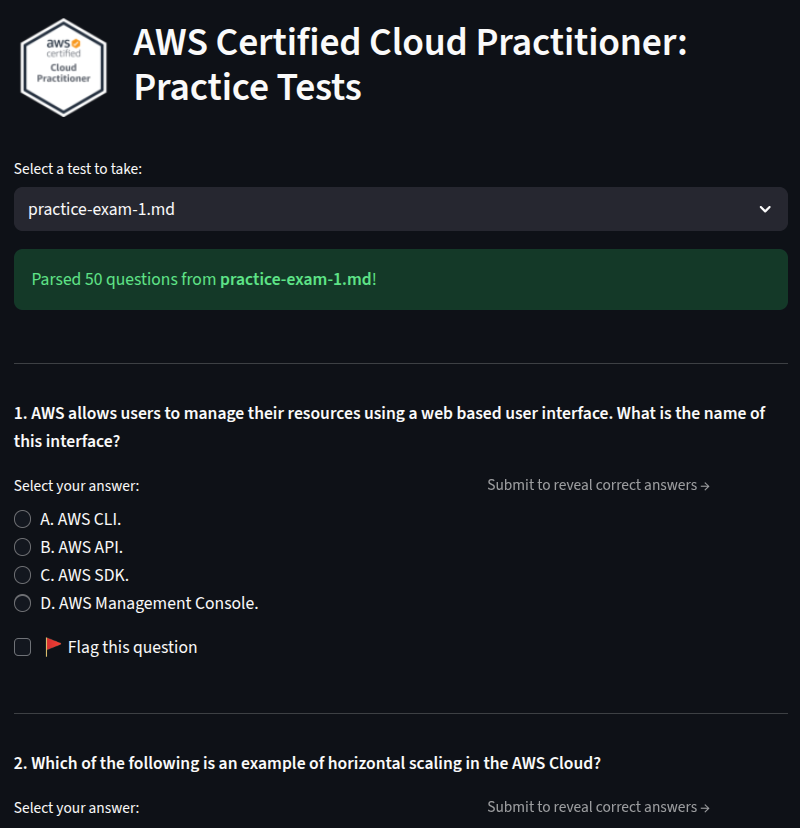
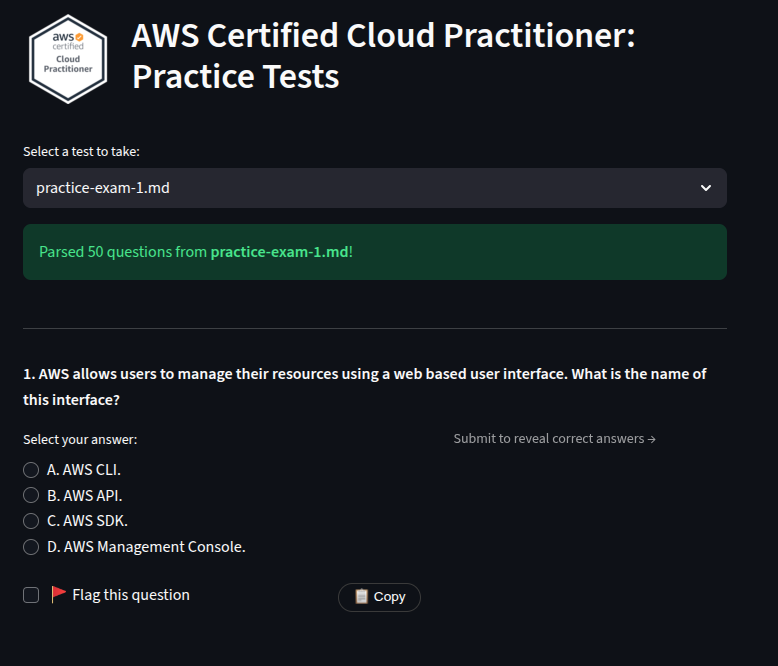
feat(): Adding copy button for question

diff --git a/test_application.py b/test_application.py
@@ -4,8 +4,96 @@ from pathlib import Path
 
 import pandas as pd
 import streamlit as st
+import json
+from streamlit.components.v1 import html as st_html
 from openpyxl import load_workbook
 from openpyxl.styles import PatternFill
+
+# -------------------------
+# Copy button helper (added)
+# -------------------------
+
+def copy_to_clipboard_button(text: str, key: str, label: str = "📋 Copy"):
+    """
+    Render a tiny HTML button that copies `text` to clipboard.
+    - Uses dark theme styling (black background to match Streamlit dark).
+    - Fully rounded pill border so the bottom edge doesn't look clipped.
+    - On success, label changes to "Copied" briefly.
+    """
+    js_safe_text = json.dumps(text)
+    button_id = f"{key}_btn"
+    status_id = f"{key}_status"
+    html_snippet = """
+        <div style="display:flex;align-items:center;gap:8px;justify-content:flex-end;">
+          <button id="{button_id}" style="
+              display:inline-block;
+              font-size:0.85rem;
+              padding:0.38rem 0.9rem;
+              line-height:1.1;
+              border-radius:9999px;
+              border:1px solid #3a3a3a;
+              background:#0e1117;
+              color:#ffffff;
+              cursor:pointer;
+              outline:none;
+          ">
+            {label}
+          </button>
+          <span id="{status_id}" style="font-size:0.8rem;opacity:0.7;"></span>
+        </div>
+        <script>
+        (function(){{
+          const btn = document.getElementById("{button_id}");
+          const status = document.getElementById("{status_id}");
+          const text = {js_safe_text};
+          const original = btn.textContent;
+
+          function fallbackCopy() {{
+            const ta = document.createElement('textarea');
+            ta.value = text;
+            ta.setAttribute('readonly', '');
+            ta.style.position = 'fixed';
+            ta.style.left = '-9999px';
+            document.body.appendChild(ta);
+            ta.select();
+            let ok = false;
+            try {{ ok = document.execCommand('copy'); }} catch (e) {{ ok = false; }}
+            document.body.removeChild(ta);
+            return ok;
+          }}
+
+          async function doCopy() {{
+            let ok = false;
+            btn.disabled = true;
+            try {{
+              if (navigator.clipboard && window.isSecureContext) {{
+                await navigator.clipboard.writeText(text);
+                ok = true;
+              }}
+            }} catch (e) {{
+              ok = false;
+            }}
+            if (!ok) ok = fallbackCopy();
+
+            if (ok) {{
+              btn.textContent = "Copied";
+              status.textContent = "";
+            }} else {{
+              status.textContent = "Copy failed";
+              status.style.opacity = 1;
+            }}
+            setTimeout(() => {{
+              btn.textContent = original;
+              btn.disabled = false;
+              status.textContent = "";
+            }}, 1500);
+          }}
+          btn.addEventListener('click', doCopy);
+        }})();
+        </script>
+    """.format(button_id=button_id, status_id=status_id, label=label, js_safe_text=js_safe_text)
+    # Increase component height a bit to avoid clipping
+    st_html(html_snippet, height=56)
 
 # ===================== Page setup (must be the first Streamlit call) =====================
 APP_DIR = Path(__file__).parent.resolve()
@@ -168,7 +256,18 @@ def main():
                         index=None  # don't preselect
                     )
 
-                flag = st.checkbox("🚩 Flag this question", key=f"flag_{idx}")
+                chk_col, copy_col = st.columns([5, 2])
+
+                with chk_col:
+
+                    flag = st.checkbox("🚩 Flag this question", key=f"flag_{idx}")
+
+                with copy_col:
+
+                    copy_text = q['question'] + "\n\n" + "\n".join([f"- {opt}" for opt in q['options']])
+
+                    copy_to_clipboard_button(copy_text, key=f"copy_{idx}", label="📋 Copy")
+
                 user_answers[idx_str] = selected
                 flags[idx_str] = flag
 

diff --git a/README.md b/README.md
@@ -28,3 +28,4 @@ This will pull the Docker image from dockerhub and will launch the app allowing 
 * Streamlit --> *pip install streamlit*
 * openpyxl --> *pip install openpyxl*
 * pandas --> *pip install pandas*
+* json --> *pip install jsons*
